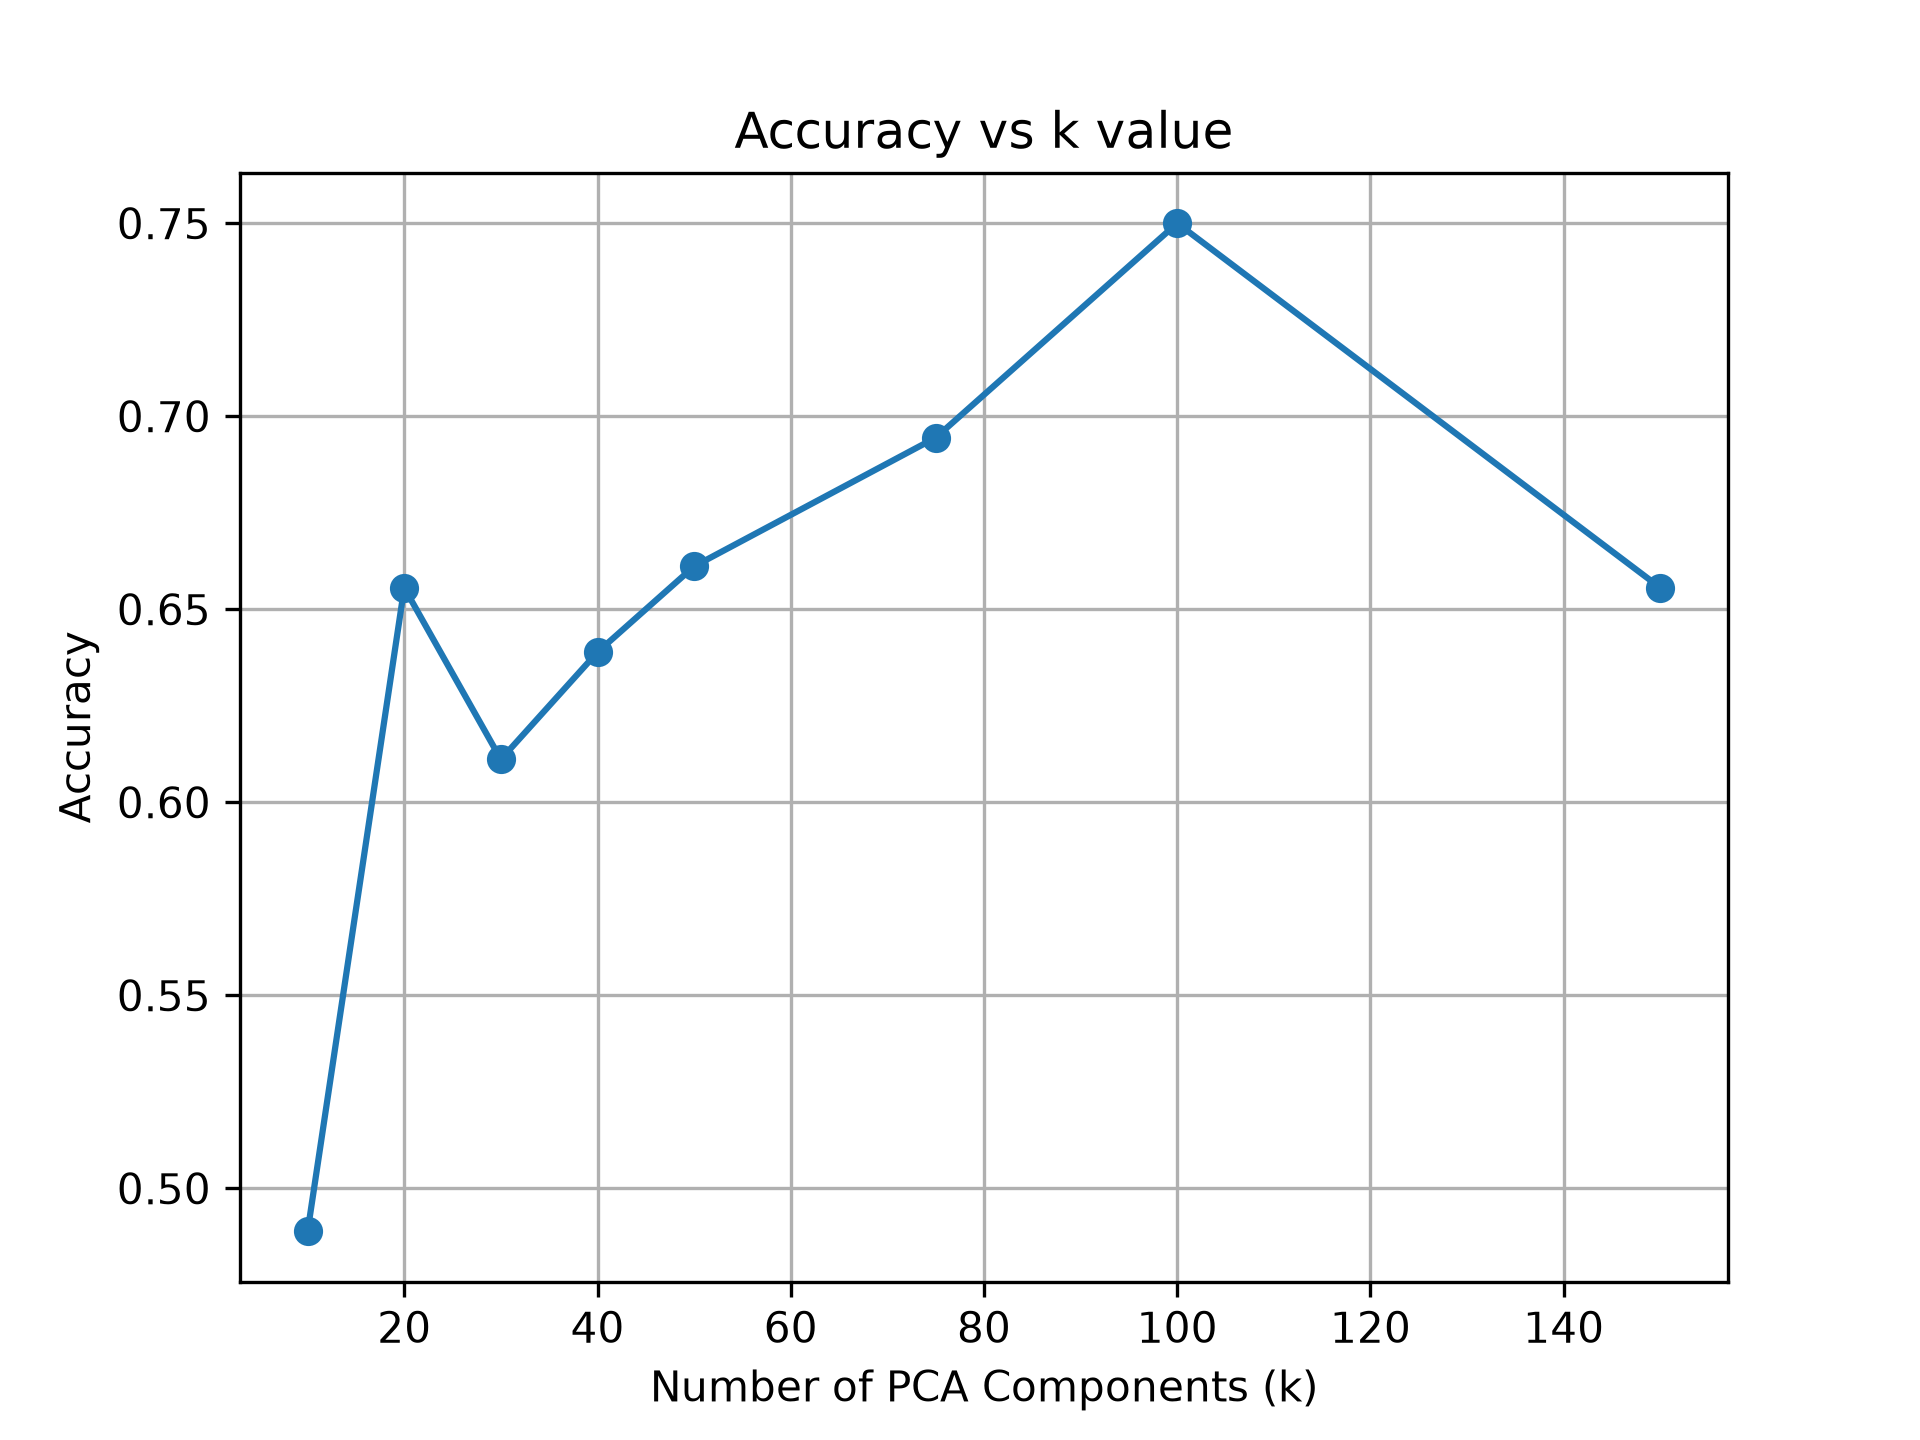
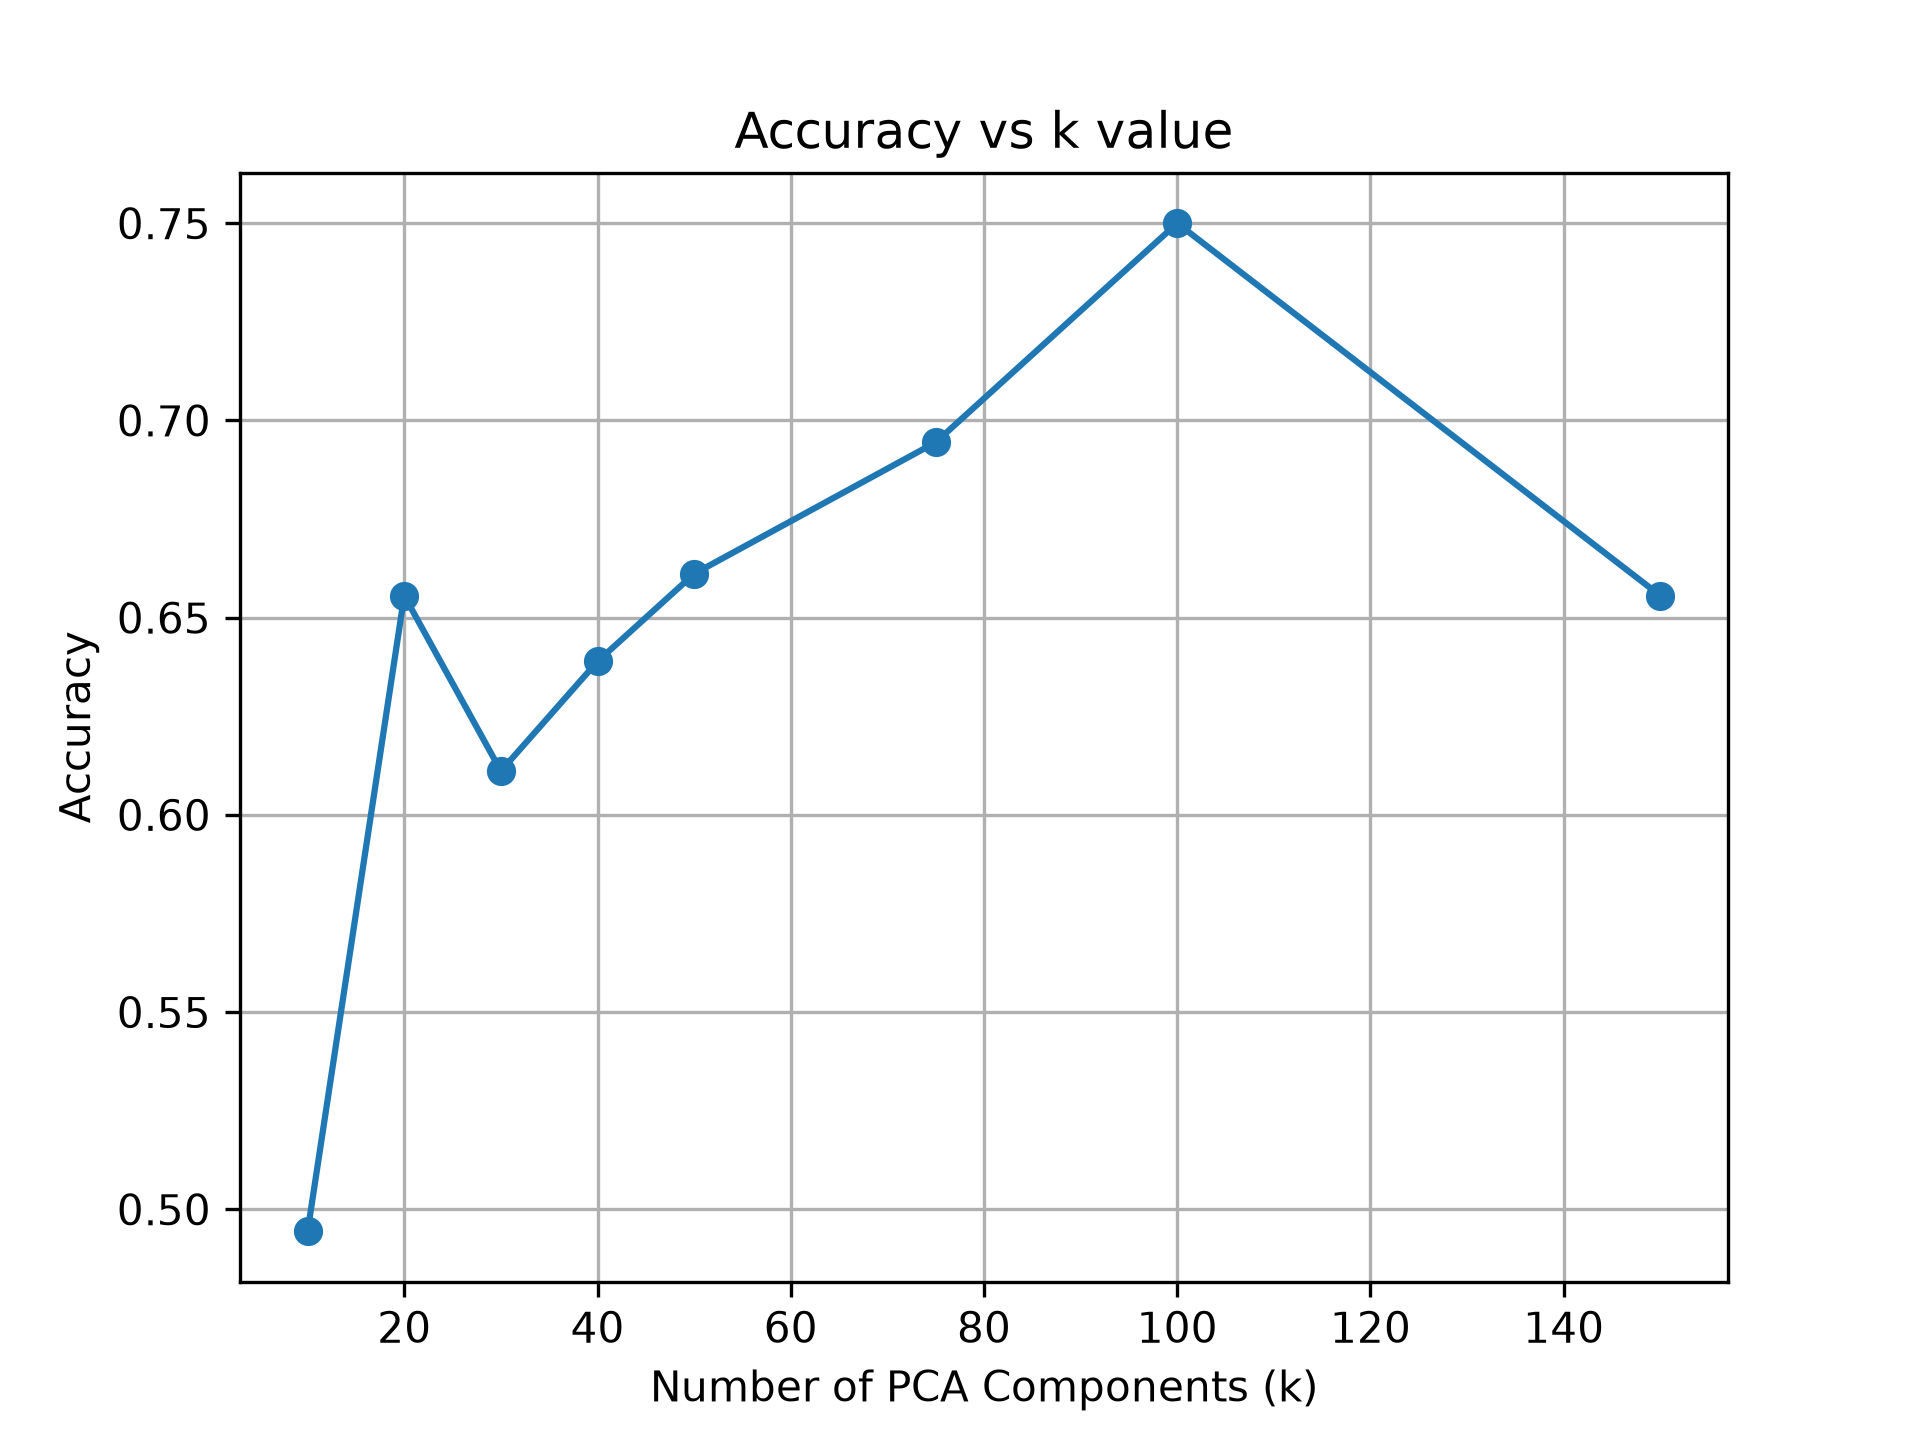
Clean final PCA ANN workflow

diff --git a/main.py b/main.py
@@ -6,14 +6,13 @@ from sklearn.model_selection import train_test_split
 from sklearn.decomposition import PCA
 from sklearn.neural_network import MLPClassifier
 from sklearn.metrics import accuracy_score
-from sklearn.metrics import classification_report
 
-IMPOSTER_PATH = "data/raw/imposters"
+
 DATASET_PATH = "data/raw/dataset/faces"
-
-
-
+IMPOSTER_PATH = "data/raw/imposters"
 IMAGE_SIZE = (100, 100)
+CONFIDENCE_THRESHOLD = 0.90
+BEST_K = 100
 
 
 def load_faces(dataset_path):
@@ -32,7 +31,6 @@ def load_faces(dataset_path):
 
         for image_name in os.listdir(person_folder):
             image_path = os.path.join(person_folder, image_name)
-
             image = cv2.imread(image_path, cv2.IMREAD_GRAYSCALE)
 
             if image is None:
@@ -47,12 +45,25 @@ def load_faces(dataset_path):
     return np.array(face_vectors), np.array(labels), label_names
 
 
+def predict_with_threshold(model, pca_model, image_vector, label_names):
+    image_pca = pca_model.transform(image_vector)
+    probabilities = model.predict_proba(image_pca)[0]
+
+    max_confidence = np.max(probabilities)
+    predicted_label = np.argmax(probabilities)
+
+    if max_confidence < CONFIDENCE_THRESHOLD:
+        return "Not enrolled", max_confidence
+
+    return label_names[predicted_label], max_confidence
+
+
 faces, labels, label_names = load_faces(DATASET_PATH)
 
+print("Dataset summary")
 print("Faces shape:", faces.shape)
 print("Labels shape:", labels.shape)
 print("Label names:", label_names)
-print("First label:", labels[0], "=", label_names[labels[0]])
 
 X_train, X_test, y_train, y_test = train_test_split(
     faces,
@@ -61,18 +72,24 @@ X_train, X_test, y_train, y_test = train_test_split(
     random_state=42,
     stratify=labels
 )
+
+print("\nTrain-test split")
+print("Training data:", X_train.shape)
+print("Testing data:", X_test.shape)
+
 k_values = [10, 20, 30, 40, 50, 75, 100, 150]
 accuracies = []
 
+print("\nAccuracy for different k values")
+
 for k in k_values:
     pca = PCA(n_components=k, whiten=True, random_state=42)
-
     X_train_pca = pca.fit_transform(X_train)
     X_test_pca = pca.transform(X_test)
 
     ann = MLPClassifier(
         hidden_layer_sizes=(100,),
-        max_iter=1000,
+        max_iter=2000,
         random_state=42
     )
 
@@ -92,72 +109,69 @@ plt.grid(True)
 plt.savefig("accuracy_vs_k.png", dpi=300)
 plt.show()
 
-best_k = 100
-pca = PCA(n_components=best_k, whiten=True, random_state=42)
+pca = PCA(n_components=BEST_K, whiten=True, random_state=42)
 X_train_pca = pca.fit_transform(X_train)
 X_test_pca = pca.transform(X_test)
 
 ann = MLPClassifier(
     hidden_layer_sizes=(100,),
-    max_iter=1000,
+    max_iter=2000,
     random_state=42
 )
 
 ann.fit(X_train_pca, y_train)
+y_pred = ann.predict(X_test_pca)
+final_accuracy = accuracy_score(y_test, y_pred)
 
-CONFIDENCE_THRESHOLD = 0.90
-
-probabilities = ann.predict_proba(X_test_pca)
-
-for i in range(10):
-    max_confidence = np.max(probabilities[i])
-    predicted_label = np.argmax(probabilities[i])
-    actual_label = y_test[i]
-
-    if max_confidence < CONFIDENCE_THRESHOLD:
-        prediction = "Not enrolled"
-    else:
-        prediction = label_names[predicted_label]
-
-    print("Actual:", label_names[actual_label])
-    print("Predicted:", prediction)
-    print("Confidence:", max_confidence)
-    print("---")
-
-print("Training data:", X_train.shape)
-print("Testing data:", X_test.shape)
-print("Training labels:", y_train.shape)
-print("Testing labels:", y_test.shape)
+print("\nFinal model")
+print("Best k:", BEST_K)
+print("Final accuracy:", final_accuracy)
 print("Confidence threshold:", CONFIDENCE_THRESHOLD)
 
-print("Testing imposter images")
+print("\nSample test predictions")
 
+for i in range(10):
+    image_vector = X_test[i].reshape(1, -1)
+    prediction, confidence = predict_with_threshold(
+        ann,
+        pca,
+        image_vector,
+        label_names
+    )
 
-for image_name in os.listdir(IMPOSTER_PATH):
-    image_path = os.path.join(IMPOSTER_PATH, image_name)
-
-    image = cv2.imread(image_path, cv2.IMREAD_GRAYSCALE)
-
-    if image is None:
-        continue
-
-    image = cv2.resize(image, IMAGE_SIZE)
-    image_vector = image.flatten().reshape(1, -1)
-
-    image_pca = pca.transform(image_vector)
-
-    probabilities = ann.predict_proba(image_pca)[0]
-
-    max_confidence = np.max(probabilities)
-    predicted_label = np.argmax(probabilities)
-
-    if max_confidence < CONFIDENCE_THRESHOLD:
-        prediction = "Not enrolled"
-    else:
-        prediction = label_names[predicted_label]
-
-    print("Image:", image_name)
+    print("Actual:", label_names[y_test[i]])
     print("Predicted:", prediction)
-    print("Confidence:", max_confidence)
+    print("Confidence:", confidence)
     print("---")
 
+print("\nTesting imposter images")
+
+if not os.path.exists(IMPOSTER_PATH):
+    print("Imposter folder not found:", IMPOSTER_PATH)
+else:
+    imposter_images = os.listdir(IMPOSTER_PATH)
+
+    if len(imposter_images) == 0:
+        print("No imposter images found. Add unknown face images in data/raw/imposters.")
+    else:
+        for image_name in imposter_images:
+            image_path = os.path.join(IMPOSTER_PATH, image_name)
+            image = cv2.imread(image_path, cv2.IMREAD_GRAYSCALE)
+
+            if image is None:
+                continue
+
+            image = cv2.resize(image, IMAGE_SIZE)
+            image_vector = image.flatten().reshape(1, -1)
+
+            prediction, confidence = predict_with_threshold(
+                ann,
+                pca,
+                image_vector,
+                label_names
+            )
+
+            print("Image:", image_name)
+            print("Predicted:", prediction)
+            print("Confidence:", confidence)
+            print("---")